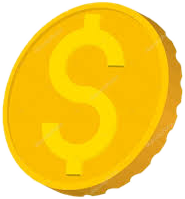
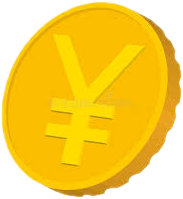
finish two type coin demo

diff --git a/src/main/java/com/wifi/gui/v2/HomePage.java b/src/main/java/com/wifi/gui/v2/HomePage.java
@@ -116,6 +116,8 @@ public class HomePage {
     private JScrollPane coinAdsScrollPane;
     private JPanel adsContainer;
     private JTabbedPane purchaseTabPane;
+    private JLabel leftTokenIconLabel;
+    private JLabel leftCoinIconLabel;
     private JScrollPane orderDetailScrollPane2;
     private JPanel orderDetailPanel2;
     private JScrollPane adsScrollPane;
@@ -360,11 +362,17 @@ public class HomePage {
             }
         });
         // set token coin image
-        setJLabelIcon(leftTokenLabel,rootPath + "/img/token.png",rWidth,0.08);
-        leftTokenLabel.setHorizontalTextPosition(SwingConstants.LEFT);
+        leftTokenIconLabel.setText("积分");
+        setJLabelIcon(leftTokenIconLabel,rootPath + "/img/token.png",rWidth,0.08);
+        leftTokenIconLabel.setHorizontalTextPosition(SwingConstants.LEFT);
+//        setJLabelIcon(leftTokenLabel,rootPath + "/img/token.png",rWidth,0.08);
+//        leftTokenLabel.setHorizontalTextPosition(SwingConstants.LEFT);
         // set real coin image
-        setJLabelIcon(leftCoinLabel,rootPath + "/img/coin.png",rWidth,0.08);
-        leftCoinLabel.setHorizontalTextPosition(SwingConstants.LEFT);
+        leftCoinIconLabel.setText("代币");
+        setJLabelIcon(leftCoinIconLabel,rootPath + "/img/coin.png",rWidth,0.08);
+        leftCoinIconLabel.setHorizontalTextPosition(SwingConstants.LEFT);
+//        setJLabelIcon(leftCoinLabel,rootPath + "/img/coin.png",rWidth,0.08);
+//        leftCoinLabel.setHorizontalTextPosition(SwingConstants.LEFT);
     }
 
     /*
